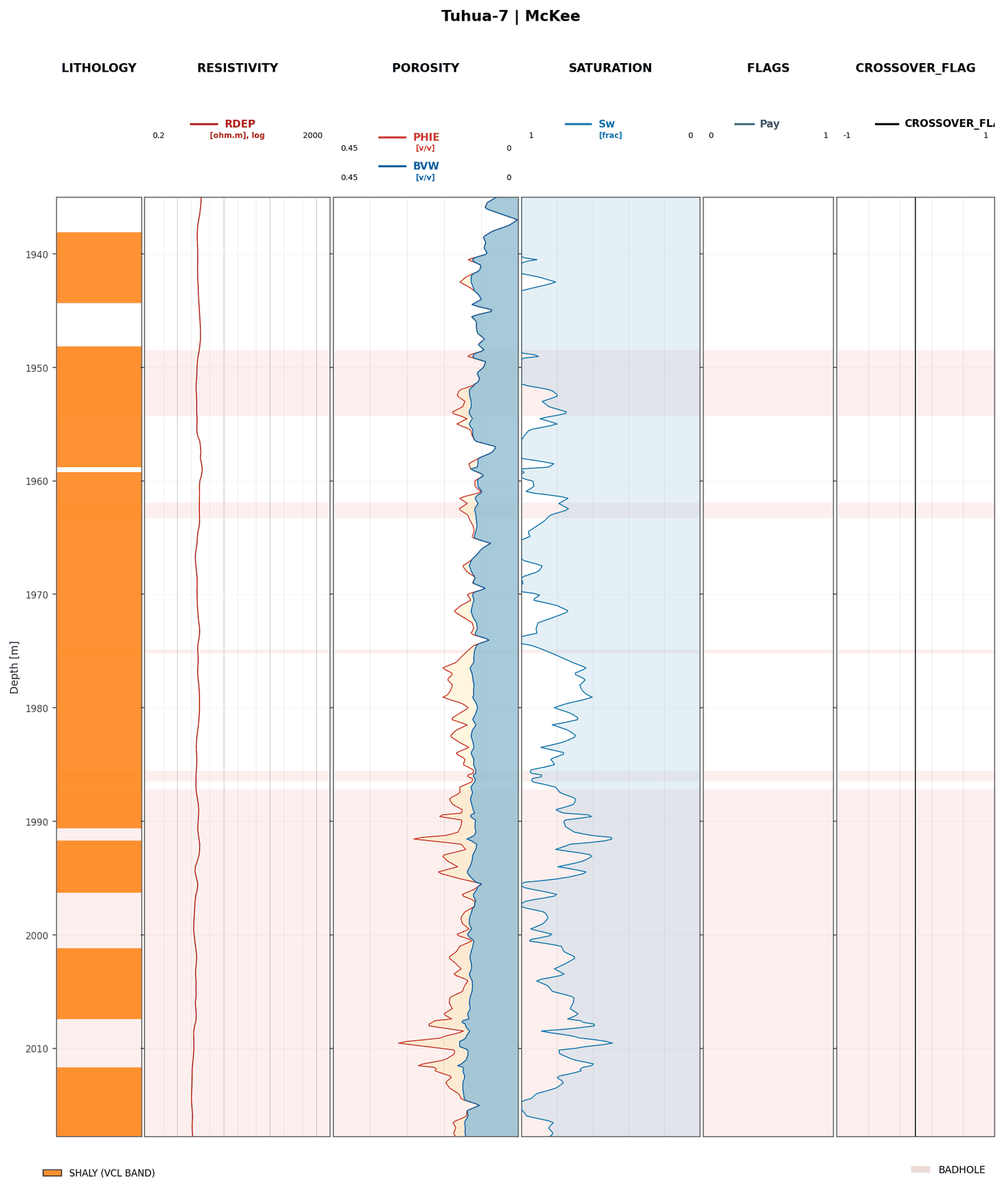
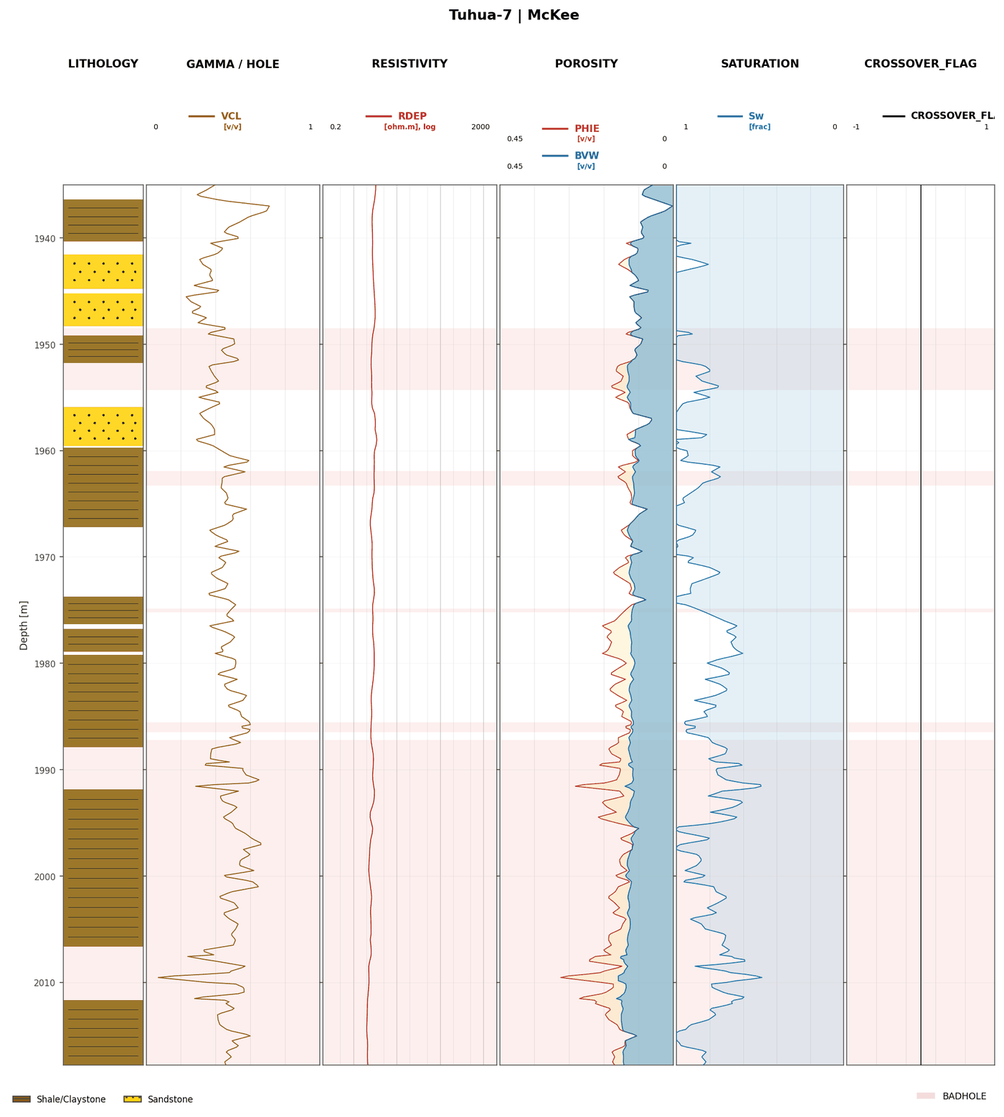
Docs, examples and labels follow the lithology zones Petrophys solves
The two worked examples on wells without a lithology log are asked again and quote their new runs, with their own
figures. The Python API page calls prepare() as it is called now. The map head and the step record in the reference
show the lines the code prints. The web page's lithology option and preview line, the --lithology-curve help and a
few docstrings name the solved lithology before shale-volume bands.

diff --git a/src/petroharness/ui/static/index.html b/src/petroharness/ui/static/index.html
@@ -1033,7 +1033,7 @@ body:not(.panel-closed) .scrim { display: block; position: fixed; inset: 52px 0 
         </section>
         <section data-sec="options" hidden>
           <label class="lab" for="lithcurve">Lithology curve</label>
-          <select id="lithcurve"><option value="">Detect (none: zones from shale-volume bands)</option></select>
+          <select id="lithcurve"><option value="">Detect (none: zones from Petrophys's solved lithology)</option></select>
           <label class="lab" for="lithtext">The formation's lithology, as you know it</label>
           <input type="text" id="lithtext" placeholder="e.g. fine sandstone with siltstone">
           <label class="lab" for="notespath">Field notes</label>
@@ -1210,7 +1210,7 @@ function showLas(info) {
   $("#unit").options[0].textContent = unit ? `${unit} (LAS)` : "LAS unit";
   $("#topsunit").options[0].textContent = unit ? `the LAS file's (${unit})` : "the LAS file's";
   const keep = $("#lithcurve").value;
-  $("#lithcurve").innerHTML = `<option value="">Detect (none: zones from shale-volume bands)</option>` +
+  $("#lithcurve").innerHTML = `<option value="">Detect (none: zones from Petrophys's solved lithology)</option>` +
     [...info.curves].sort((a, b) => lith.has(b.mnemonic) - lith.has(a.mnemonic)).map(c => `<option value="${esc(c.mnemonic)}">${esc(c.mnemonic)}${lith.has(c.mnemonic) ? " (looks like a lithology log)" : ""}</option>`).join("");
   if (info.curves.some(c => c.mnemonic === keep)) $("#lithcurve").value = keep;
   if ($("#topspath").value.trim()) loadTops($("#topspath").value.trim());
@@ -1434,7 +1434,7 @@ function iwellHtml(busy) {
   if (!p) return `<span class="wn"><span class="spin"></span> Petrophys is interpreting the well…</span>`;
   const iv = p.interval, u = p.unit || "", tot = p.interval_thickness || 0;
   const strip = tot ? p.zones.map(z => `<span title="${esc(z.zone)} ${esc(z.lithology)} ${fmtD(z.top)}–${fmtD(z.base)} ${esc(u)}" style="left:${100 * (z.top - iv.top) / tot}%;width:${Math.max(.4, 100 * (z.base - z.top) / tot)}%;background:${lithColor(z.lithology)}"></span>`).join("") : "";
-  const how = p.lithology.source === "shale-volume bands" ? "zoned by shale-volume bands (no lithology log)" : p.lithology.source === "lithology log" ? `zoned by the lithology log ${p.lithology.curve}` : "";
+  const how = p.lithology.source === "shale-volume bands" ? "zoned by shale-volume bands (no lithology log, none solved)" : p.lithology.source === "mineral solver" ? `zoned by Petrophys's solved lithology (no lithology log; ${p.lithology.domain} domain)` : p.lithology.source === "lithology log" ? `zoned by the lithology log ${p.lithology.curve}` : "";
   return `<div><b>${esc(iv.name)}</b> <span class="subtle">${fmtD(iv.top)}–${fmtD(iv.base)} ${esc(u)} · ${fmtN(iv.samples)} samples</span>${busy ? ' <span class="spin"></span>' : ""}</div>
     <div class="zs" role="img" aria-label="${p.zones.length} zones over the interval">${strip}</div>
     <div class="wn"><b>${p.zones.length}</b> zone${p.zones.length === 1 ? "" : "s"}, <b>${fmtD(p.zoned)}</b> of ${fmtD(tot)} ${esc(u)} zoned · minimum ${fmtD(p.min_thickness)} ${esc(u)} · ${esc(how)}</div>`;

diff --git a/src/petroharness/well/formation.py b/src/petroharness/well/formation.py
@@ -235,7 +235,8 @@ def find_lithology_curve(curve: Callable[[str], Optional[np.ndarray]], las_curve
     """The well's lithology log. Named (data.lithology_curve): the first of those mnemonics the well has with data.
     Not named: the LAS's own curve (las_curves: never one the workflow computed) whose mnemonic or description says it
     is a lithology or facies log (LITHOLOGY_LOG) and whose values are integer codes. None: no lithology log, and the
-    zones come from shale-volume bands. Two such curves and none named is an error that names them.
+    zones come from the lithology Petrophys's mineral solver wrote (solver_lithology), else from shale-volume bands.
+    Two such curves and none named is an error that names them.
     `curve` returns a curve's data by mnemonic (None when the well lacks it); `describe` its LAS description."""
     def has(name):
         data = curve(name)
@@ -287,7 +288,7 @@ def solver_lithology(steps: dict, well) -> Optional[dict]:
 
 
 def vcl_band_labels(vcl: np.ndarray, bands=(0.3, 0.6)) -> np.ndarray:
-    """Fallback labels when a well has no lithology curve: shale-volume bands."""
+    """Fallback labels when a well has neither a lithology log nor a solved lithology: shale-volume bands."""
     lo, hi = bands
     out = np.full(vcl.shape, MISSING_LITHOLOGY, dtype=object)
     ok = np.isfinite(vcl)

diff --git a/src/petroharness/ui/adapter.py b/src/petroharness/ui/adapter.py
@@ -426,9 +426,9 @@ def view_of(inputs: dict, cache: Path):
 
 def preview(inputs: dict, cache: Path) -> dict:
     """What Petrophys makes of this well under these settings, before any question: the interval, its zones under the
-    zone rule, how the zones were read (the lithology log, or shale-volume bands), and the value each setting took
-    ({setting: {"value", "step"}}: the defaults the data decides, for this well). The interpreted well is kept in
-    `cache` (the runs' shared cache), so the question that follows reuses it."""
+    zone rule, how the zones were read (the lithology log, the solved lithology, or shale-volume bands), and the value
+    each setting took ({setting: {"value", "step"}}: the defaults the data decides, for this well). The interpreted
+    well is kept in `cache` (the runs' shared cache), so the question that follows reuses it."""
     from petroharness import interval as I
     from petroharness.well import settings as T
     kw = arguments({**inputs, "question": "(a preview of the interpretation)"})

diff --git a/src/petroharness/ask.py b/src/petroharness/ask.py
@@ -276,7 +276,8 @@ def interval_options(ap: argparse.ArgumentParser) -> None:
                                             "(default: the tops file's, else the LAS's own)")
     lith = ap.add_argument_group("lithology")
     lith.add_argument("--lithology-curve", help="the lithology log's mnemonic (default: detected; when the LAS has "
-                                                "none, the zones are shale-volume bands)")
+                                                "none, the zones are runs of the lithology Petrophys's mineral "
+                                                "solver wrote, else shale-volume bands)")
     lith.add_argument("--formation-lithology", help="the formation's lithology as you know it, e.g. 'sandstone'")
     ap.add_argument("--field-notes", type=Path, help="a field notes file: the team's standing settings and notes for "
                                                      "this field (YAML: name, settings, notes; docs/SESSIONS.md)")

diff --git a/src/petroharness/config.py b/src/petroharness/config.py
@@ -101,7 +101,7 @@ class DataPaths(_Strict):
     lithology_columns: LithologyColumns = Field(default_factory=LithologyColumns)
     # The lithology log's LAS mnemonic, or several (the first a well has with data is used). Null: the LAS's own
     # curve whose mnemonic or description names a lithology or facies log and holds integer codes; a well without
-    # one is zoned by shale-volume bands (formation.find_lithology_curve).
+    # one is zoned by Petrophys's solved lithology, else by shale-volume bands (formation.find_lithology_curve).
     lithology_curve: Optional[Union[str, list[str]]] = None
     # How a formation is split into zones: "lithology_runs" (runs of the lithology log, thin runs dropped) or
     # "formation" (the whole formation interval is one zone, labelled by the log's majority lithology: data whose

diff --git a/docs/reference/PYTHON_API.md b/docs/reference/PYTHON_API.md
@@ -174,25 +174,27 @@ r2 = ask(petrophys.sample("30/6-5"), "Which zone has the best reservoir quality?
   rule (`zone_min_thickness_m`, `zone_vcl_bands`, `zone_layout`) may be set with either.
 
 Three interval errors on the sample wells that have them, as `prepare()` raises them for `ask()` (each says what is
-wrong, why, and the fix; `prepare` and `key` as in [section 4](#4-the-building-blocks-of-ask)):
+wrong, why, and the fix; `prepare`, `Inputs` and `key` as in [section 4](#4-the-building-blocks-of-ask)):
 
 ```python
 s = petrophys.sample
 # a tops file that lists a formation twice (Taranaki tuhua-7)
-prepare(Path(s("tuhua-7")).resolve(), key, tops=s("formations_tuhua-7.csv"), formation="Manganui", cache=Path("cache"))
+prepare(Path(s("tuhua-7")).resolve(), key, Inputs(tops=s("formations_tuhua-7.csv"), formation="Manganui"),
+        cache=Path("cache"))
 # FormationNotFound: WHAT: formation 'Manganui' is listed 2 times in formations_tuhua-7.csv (line 3: top 874.014,
 # base 1250.75; line 10: top 2164.99, base 2347.42). WHY: a repeated name (e.g. a repeated section) does not say
 # which interval is meant. FIX: choose the one you mean by its top: --formation NAME --tops FILE --top D, or give its
 # depths alone: --formation NAME --top D --base D.
 
 # a tops file in feet asked for in metres (KGS 1046123714)
-prepare(Path(s("1046123714")).resolve(), key, tops=s("1046123714_formation_tops.csv"),
-        formation="Lansing-Kansas City", depth_unit="m", cache=Path("cache"))
+prepare(Path(s("1046123714")).resolve(), key, Inputs(tops=s("1046123714_formation_tops.csv"),
+        formation="Lansing-Kansas City", depth_unit="m"), cache=Path("cache"))
 # ValueError: WHAT: the tops file 1046123714_formation_tops.csv states its depths in ft and the depth unit given is
 # m. WHY: one of them is wrong. FIX: drop --depth-unit (the file's unit is used) or correct the file.
 
 # a multi-well tops table that has no rows for this well (the COSTA table, read for GeoLink 30/6-5)
-prepare(Path(s("30/6-5")).resolve(), key, tops=s("formations_costa.csv"), formation="KHARAIB-2", cache=Path("cache"))
+prepare(Path(s("30/6-5")).resolve(), key, Inputs(tops=s("formations_costa.csv"), formation="KHARAIB-2"),
+        cache=Path("cache"))
 # FormationNotFound: WHAT: the tops file formations_costa.csv has no rows for this well (it goes by '30_6-5',
 # '30/6-5', '30/6-5'; the file's well column lists HW-3, HW-4, HW-5, HW-6, HW-7, HW-8, HW-9, HW-10, HW-24, HW-25,
 # HW-26, HW-27, HW-28, HW-29, HW-30, HW-31, HW-32). WHY: a table with a well column is read for this well only. FIX:
@@ -262,12 +264,12 @@ no model: they check an interval, and have Petrophys interpret it, before any qu
 ```python
 from pathlib import Path
 import petrophys
-from petroharness.ask import check, prepare, task_for
+from petroharness.ask import Inputs, check, prepare, task_for
 from petroharness.models import register
 
 las = Path(petrophys.sample("30/6-5")).resolve()
 key = register(["http://localhost:8000/v1"])            # the default card on this endpoint: 'k2-horizon-7b'
-p = prepare(las, key, formation="BRENT GP.", tops=petrophys.sample("formations_30_6-5.csv"), cache=Path("cache"))
+p = prepare(las, key, Inputs(formation="BRENT GP.", tops=petrophys.sample("formations_30_6-5.csv")), cache=Path("cache"))
 print(p.source, p.data["interpret"])                    # built from the LAS {'vcl_cutoff': 0.3, 'sw_cutoff': 0.7}
 task, sent = task_for(p, "Which zone has the best reservoir quality?")
 check(p, task)                                          # Petrophys interprets the well
@@ -281,7 +283,7 @@ mineral solver wrote.
 ```python
 from petroharness.well import settings
 
-p = prepare(Path(petrophys.sample("teapot_17-wx-21")).resolve(), key, cache=Path("cache"))
+p = prepare(Path(petrophys.sample("teapot_17-wx-21")).resolve(), key, Inputs(), cache=Path("cache"))
 task, sent = task_for(p, "Where are the porous intervals in this well, and what do they hold?")
 check(p, task)
 p.used
@@ -303,7 +305,7 @@ Each case on the sample well that has it, through the same three calls:
 
 ```python
 def interval(name, **kw):                     # the interval as ask() would use it, with no model call
-    p = prepare(Path(petrophys.sample(name)).resolve(), key, cache=Path("cache"), **kw)
+    p = prepare(Path(petrophys.sample(name)).resolve(), key, Inputs(**kw), cache=Path("cache"))
     check(p, task_for(p, "(the interval)")[0])
     return p
 
@@ -341,19 +343,21 @@ University, CC BY. GeoLink, CC BY-SA 4.0.
 `prepare()` builds the data settings and the interval for one LAS, with no model call and no interpretation yet.
 
 ```python
-prepare(las: Path, key: str, *, formation=None, tops=None, top=None, base=None, depth_unit=None, lithology_curve=None,
-        formation_lithology=None, profile=None, settings=None, skills=None, interpretation=None, field_notes=None,
-        zones=None, zones_sheet=None, cache: Path) -> Prepared
+prepare(las: Path, key: str, inputs: Inputs, *, cache: Path) -> Prepared
+
+Inputs(formation=None, tops=None, top=None, base=None, depth_unit=None, lithology_curve=None, formation_lithology=None,
+       profile=None, settings=None, skills=None, interpretation=None, field_notes=None, zones=None, zones_sheet=None)
 ```
 
 | Argument | Type | Default | Meaning | Defined in |
 |---|---|---|---|---|
 | `las` | Path | required | The LAS file, already resolved to an absolute path. | `interval.prepare` |
 | `key` | str | required | A model registry key (`petroharness.models.register`). | `interval.prepare` |
-| `formation` ... `skills` | as `ask()` | as `ask()` | As in `ask()`. | `interval.prepare` |
-| `interpretation` | dict or None | None | The settings in force, field notes' settings already merged in. | `interval._interpretation` |
-| `field_notes` | dict or None | None | The loaded field notes (`well.notes.load(path)`), not a path. | `interval.prepare` |
-| `zones`, `zones_sheet` | as `ask()` | as `ask()` | Your zones, read into `data.zones` (and the file's name into `data.zones_source`). | `interval.prepare`, `well.user_zones.read_zones` |
+| `inputs` | `Inputs` | required | What the interval is prepared from: the arguments `ask()`, a conversation, the web UI and the setup command share, one field each. `Inputs.of(mapping)` takes the fields a mapping or an argparse namespace holds. | `interval.Inputs` |
+| `inputs.formation` ... `inputs.skills` | as `ask()` | as `ask()` | As in `ask()`. | `interval.prepare` |
+| `inputs.interpretation` | dict or None | None | The settings in force; a field notes file's settings are merged under them. | `interval._interpretation`, `Inputs.loaded` |
+| `inputs.field_notes` | path, dict or None | None | A field notes file, or the notes already read from one (`well.notes.load(path)`). | `Inputs.loaded` |
+| `inputs.zones`, `inputs.zones_sheet` | as `ask()` | as `ask()` | Your zones, read into `data.zones` (and the file's name into `data.zones_source`). | `interval.prepare`, `well.user_zones.read_zones` |
 | `cache` | Path | required | The folder the interpreted well is cached in (`data.cache_dir` unless the settings file sets one). | `interval._settings` |
 
 - The data settings start from `settings` (else `PETROHARNESS_DATA`); `las_dir` defaults to the LAS's folder and
@@ -374,7 +378,7 @@ prepare(las: Path, key: str, *, formation=None, tops=None, top=None, base=None, 
 | `key` | str | required | The model registry key. | `interval.Prepared` |
 | `data` | dict | required | The data settings built for this LAS (the `data:` section, [CONFIGURATION.md](CONFIGURATION.md#4-the-data-section)). | `interval._settings` |
 | `source` | str | required | Where they came from: the settings file's path, or `built from the LAS`. | `interval._settings` |
-| `span` | dict | required | The interval asked about: `name`, `top`, `base`, `closed`, `unit`, `from`, `las_unit`, `report`. | `interval._interval` |
+| `span` | dict | required | The interval asked about: `name`, `top`, `base`, `closed`, `unit`, `from`, `las_unit`, `report`, and `units` (the tops file's units inside the interval) when it lists any. | `interval._interval` |
 | `said` | str | required | The operator's lithology for the formation ("" when not given). | `interval.prepare` |
 | `given` | dict | required | The settings every question runs under, for `config.given_settings`: `{"data", "eval": {}, "skills"?}`. | `interval.prepare` |
 | `skills_given` | str or None | None | The `skills` argument as given. | `interval.prepare` |
@@ -387,8 +391,9 @@ prepare(las: Path, key: str, *, formation=None, tops=None, top=None, base=None, 
 ```python
 p.span          # 30/6-5, Brent Group
 # {'name': 'BRENT GP.', 'top': 2841.0, 'base': 2958.0, 'closed': True, 'unit': 'm',
-#  'from': 'tops file formations_30_6-5.csv, base: stated base', 'las_unit': 'm', 'report': 'm'}
-prepare(Path(petrophys.sample("25/5-1")).resolve(), key, top=2990, base=3290, cache=Path("cache")).span
+#  'from': 'tops file formations_30_6-5.csv, base: stated base',
+#  'units': [['Ness Fm.', 2841.0, 2865.0], ['Etive Fm.', 2865.0, 2958.0]], 'las_unit': 'm', 'report': 'm'}
+prepare(Path(petrophys.sample("25/5-1")).resolve(), key, Inputs(top=2990, base=3290), cache=Path("cache")).span
 # {'name': 'depth interval 2990-3290 m', 'top': 2990.0, 'base': 3290.0, 'closed': True, 'unit': 'm',
 #  'from': 'depths given', 'las_unit': 'm', 'report': 'm'}
 ```
@@ -407,8 +412,8 @@ These three functions turn a `Prepared` into a question the graph can run and re
 | `ask_record(p, question, sent, trace)` | dict | none | The trace's `ask` block ([AskResult](#askresult)). | `ask.ask_record` |
 
 ```python
-p = prepare(las, key, formation="BRENT GP.", tops=petrophys.sample("formations_30_6-5.csv"),
-            formation_lithology="sandstone", cache=Path("cache"))
+p = prepare(las, key, Inputs(formation="BRENT GP.", tops=petrophys.sample("formations_30_6-5.csv"),
+                             formation_lithology="sandstone"), cache=Path("cache"))
 task_for(p, "Which zone has the best reservoir quality?")[1]
 # "Which zone has the best reservoir quality?\n\n(The operator states this formation's lithology: sandstone.)"
 ```

diff --git a/docs/EXAMPLES.md b/docs/EXAMPLES.md
@@ -129,24 +129,34 @@ petroharness --las $(w HW-3) --tops $(w formations_costa.csv) --formation KHARAI
   --question "Interpreted as a carbonate, what are the porosity, water saturation and net pay of KHARAIB-2, and how do they change against a clastic reading with a sandstone matrix?"
 ```
 
-Petrophys interpreted the interval as a carbonate (a calcite–dolomite solve on a 2.71 g/cm³ matrix). The model read
-the record and had Petrophys recompute density porosity on a sandstone matrix (8 steps). The tops table holds several
-COSTA wells; the rows of HW-3 are used, in feet.
+Petrophys interpreted the interval as a carbonate (a calcite–dolomite solve on a 2.71 g/cm³ matrix). The well has no
+lithology log, so the zones are the solver's: nine, limestone with one dolomite. The model read the record,
+summarized pay, and had Petrophys rerun porosity and saturation under a clastic reading (8 steps, 13 results
+opened). The tops table holds several COSTA wells; the rows of HW-3 are used, in feet.
 
-> - **Porosity:** uncalibrated PHIE mean **0.1981 v/v** (median 0.2164, range 0.0324–0.3099); core-calibrated
->   PHIE_CC mean **0.2443** (median 0.29) over the 351 samples where it exists. […]
-> - **Net pay:** **194 ft of NET_PAY (90% of the zoned thickness)**, flagged where NET_ROCK (VCL < 0.3) and NET_RES
->   (PHIE > 0.045) hold and SW < 0.7. […]
-> - **Carbonate support:** VCALC mean **0.7422** (median 0.7719) and VDOLO mean **0.0559** (median 0) with quartz and
->   anhydrite fixed at 0 […]
+> KHARAIB-2 is logged as a 215-ft gross interval (7805–8020 ft, 431 samples at 0.5-ft spacing) split into nine
+> labelled zones (Z1–Z9, 179 ft of zoned thickness). Under a carbonate reading, the available data give:
 >
-> A 2.65 g/cm³ sandstone matrix lowers density porosity from ~0.196 to ~0.169 (mean, pooled) […] What would follow for
-> Archie SW and pay was not run and cannot be stated from this record.
+> - **Porosity** — effective porosity PHIE (uncalibrated model output) pools to **0.2063 v/v** over the 367 zoned
+>   samples (0.1981 over the whole 431-sample interval), while the core-calibrated PHIE_CC pools to **0.233** over
+>   the 287 zoned samples where it exists and **0.2443** over the whole interval (n = 351 of 431). […]
+> - **Water saturation** — the Archie SW (core-calibrated PHIE_CC where present, PHIE fallback where absent) pools
+>   to **0.2103** over the zones and **0.1943** over the whole interval. […]
+> - **Net pay** — the record's flags: NET_ROCK 431 samples / **215.5 ft** (VCL < 0.3), NET_RES **390 samples / 195
+>   ft**, NET_PAY **388 samples / 194 ft** (adds SW < 0.7). […]
+> - **Sandstone/clastic reading** — the available lithology outputs carry **VQUAR = 0** over the entire well […] A
+>   quartz-matrix porosity recomputation was attempted, but the default quartz density and slowness values are not
+>   recorded and the recomputed per-sample porosity is not available in the record text, so the shift on
+>   PHID/PHIT/PHIE cannot be graded numerically. […]
+>
+> The field notes state KHARAIB-2 is a limestone reservoir. The data show limestone-dominant carbonate (VCALC mean
+> 0.7365–0.825) with a dolomite band (Z4), zero quartz volume, and no sandstone-matrix indicator — so the
+> "sandstone/clastic" reading is hypothetical and not supported by the lithology outputs.
 
-The last line is the answer keeping to what was computed: the sandstone what-if covered porosity, so the answer does
-not guess its effect on saturation and pay.
+The answer keeps to what was computed: it reports the pay flags as the record holds them, and where the sandstone
+rerun gave it no porosity it could grade, it says so and does not guess.
 
-![Density against neutron in COSTA HW-3](images/example-carbonate.png "The answer's density-neutron crossplot of KHARAIB-2, 431 samples coloured by gamma ray, with the sandstone, limestone and dolomite lines. Drawn by Petrophys. Data: Costa Gomes, Geiger and Arnold (2022), COSTA model, Heriot-Watt University, CC BY.")
+![Porosity beside the solved lithology in COSTA HW-3](images/example-carbonate.png "The answer's log display of KHARAIB-2 in COSTA HW-3: total, effective and core-calibrated porosity with the density, sonic and neutron porosities, beside the zones' lithology as Petrophys solved it (limestone, with one dolomite zone). Drawn by Petrophys. Data: Costa Gomes, Geiger and Arnold (2022), COSTA model, Heriot-Watt University, CC BY.")
 
 ## 6. A fluid contact
 
@@ -155,17 +165,20 @@ petroharness --las $(w tuhua-7) --tops $(w formations_tuhua-7.csv) --formation M
   --question "Is there a hydrocarbon-water contact in the McKee Formation? If so, at what depth, and how strong is the evidence?"
 ```
 
-The well has no lithology log, so the zones are bands of shale volume. The model read saturation by depth, the
-fluid-contact and hydrocarbon analyzers, invasion and crossover, and overlapped the low-saturation samples with bad
-hole (8 steps, 16 results opened).
+The well has no lithology log, so the zones are runs of the lithology Petrophys's mineral solver gives: 11 zones of
+shale and sandstone. The model read the fluid-contact, hydrocarbon and gas analyzers and saturation by depth (3 steps,
+8 results opened).
 
-> **Answer:** No reliable hydrocarbon–water contact is identified in the McKee Formation of well tuhua-7. Water
-> saturation is high throughout, no pay flag is set anywhere, and the few low-SW samples sit inside clay-rich, largely
-> bad-hole intervals where the hydrocarbon-indicator criteria cannot operate cleanly. […] The strongest signal for any
-> hydrocarbon potential is a marginal LOW_SW sample at 1991.7156 m in Z4; it is too thin, too clay-dominated, and too
-> data-limited to define a contact depth.
+> There is **no supported hydrocarbon-water contact** in the McKee Formation in well **tuhua-7** (1935.0–2017.8 m).
+> The saturation workflow returns water saturations of 0.82–1.0 v/v across all 11 lithological zones, with a pooled
+> zone mean of **0.872 v/v**; every hydrocarbon, gas, and petrophysical indicator classifies the interval as
+> **NO_INDICATION** / **NO_GAS_EFFECT**, the neutron-density crossover flag is set in **zero** samples, and
+> **NET_PAY** is set in **zero** samples. The only fluid-contact detector marks **0.448 m** of transition-zone
+> status (0.77% of the 58.2 m zoned thickness) at ~1958.9 m and ~1992.0–1995.4 m, but these sit in intervals with
+> high bad-hole density and lack any supporting resistivity or core evidence. No depth can be assigned to a
+> hydrocarbon-water contact with confidence.
 
-![Saturation and porosity in the McKee Formation](images/example-contact.png "The answer's log display of the McKee Formation in tuhua-7: deep resistivity, effective porosity and bulk volume water, water saturation, the net-pay flag and the crossover flag; no pay is flagged, and bad hole is shaded. Drawn by Petrophys. Data: Taranaki Basin Curated Well Logs Dataset (New Zealand Petroleum & Minerals), CDLA-Sharing-1.0.")
+![Saturation and porosity in the McKee Formation](images/example-contact.png "The answer's log display of the McKee Formation in tuhua-7, beside the zones' lithology: shale volume, deep resistivity, effective porosity and bulk volume water, water saturation and the crossover flag; no crossover is flagged, and bad hole is shaded. Drawn by Petrophys. Data: Taranaki Basin Curated Well Logs Dataset (New Zealand Petroleum & Minerals), CDLA-Sharing-1.0.")
 
 The wells ship with Petrophys. Data: GeoLink, CC BY-SA 4.0; Taranaki Basin Curated Well Logs Dataset (New Zealand
 Petroleum & Minerals), CDLA-Sharing-1.0; Costa Gomes, Geiger and Arnold (2022), COSTA model, Heriot-Watt University,

diff --git a/docs/reference/TOOLS_REFERENCE.md b/docs/reference/TOOLS_REFERENCE.md
@@ -1176,20 +1176,20 @@ The lines it writes, as `tools.values_at` builds them (placeholders in angle bra
   ...
   sxo_method: fifth_root_quicklook
   ...
-  record: in this interval SXO is the quicklook SW^(1/5) at 397 samples; 1 where SW is 1 too (water-bearing, either route) at 34 samples (of its 431 samples with SXO and SW); where SXO is the quicklook it is a formula of SW (and MHI = SW^0.8), not a flushed-zone reading: ...
+  in this interval SXO is the quicklook SW^(1/5) at 397 samples; 1 where SW is 1 too (water-bearing, either route) at 34 samples (of its 431 samples with SXO and SW); where SXO is the quicklook it is a formula of SW (and MHI = SW^0.8), not a flushed-zone reading: ...
   ...
-  record: well-wide record: SXO fallback: SXO = SW^(1/5) because RSHA/RXO/RESS and RMF unavailable
+  record (the whole well's run; its counts are the well's): SXO fallback: SXO = SW^(1/5) because RSHA/RXO/RESS and RMF unavailable
 ```
 
 **Notes**
 
 - Parameters whose names end in a bookkeeping suffix (`_source`, `_requested`, `_count`, `_samples`, ...) are left
   out, and nested parameters lose their sample tallies, which count the whole well (`tools._BOOKKEEPING`, `_TALLY`).
-- The first record lines are this interval's routes, counted sample by sample by `record/routes.py`
+- The lines that start `in this interval` are this interval's routes, counted sample by sample by `record/routes.py`
   (`route_lines`): which resistivity pair gives `INVASION_RATIO` (`SHALLOW` = `RXO`, `RSHA`, `RESS`, `RMED`; the
   fallback `RMED`) and where SXO comes from shallow resistivity, where it is the quicklook `SW^(1/5)`, and where both
-  are 1 (water-bearing). A record line about the whole well's routes is labelled `well-wide record:`
-  (`routes.well_wide`).
+  are 1 (water-bearing). The lines the whole well's run recorded are labelled `record (the whole well's run; its
+  counts are the well's):` (`card.RECORD_LABEL`).
 - `routes.contradictions` uses the same counts to flag a claim or a draft that calls this interval's route the
   well-wide fallback ([WRITER_AND_CHECKER.md](WRITER_AND_CHECKER.md)).
 

diff --git a/docs/reference/INTERPRETATION_SETTINGS.md b/docs/reference/INTERPRETATION_SETTINGS.md
@@ -616,7 +616,7 @@ minimum, 31 at 1.0 m.
 | Name | Type | Default | Meaning | Defined in |
 |---|---|---|---|---|
 | `zone_min_thickness_m` | number, metres | policy `zones.min_thickness_m`, 2.0 | becomes `data.zone_min_thickness_m`; a run is a zone when base minus top exceeds it, converted to the reporting unit | `settings.ZONE_FIELDS`, `FormationView.build` |
-| `zone_vcl_bands` | two numbers, v/v | policy `zones.fallback_vcl_bands`, `[0.3, 0.6]` | becomes `data.zone_vcl_bands`; the band edges, used only when the well has no lithology log | `settings.ZONE_FIELDS`, `formation.vcl_band_labels` |
+| `zone_vcl_bands` | two numbers, v/v | policy `zones.fallback_vcl_bands`, `[0.3, 0.6]` | becomes `data.zone_vcl_bands`; the band edges, used only when the well has neither a lithology log nor a solved lithology | `settings.ZONE_FIELDS`, `formation.vcl_band_labels` |
 | `zone_layout` | `lithology_runs` or `formation` | `lithology_runs` | becomes `data.zone_layout`; runs of one label, or the interval as one zone (`formation.formation_zone`) | `settings.ZONE_FIELDS`, `config.DataPaths` |
 
 Example: the same rule in a settings file.

diff --git a/docs/reference/INVESTIGATION_STATE.md b/docs/reference/INVESTIGATION_STATE.md
@@ -1046,7 +1046,9 @@ The head of the map of 30/6-5, Brent Group, whose zones are runs of its litholog
 
 ```text
 WELL 30_6-5, FORMATION BRENT GP.
-Interval: 2841.0193-2957.9102 m (gross 116.8909 m); 768 samples every 0.1523 m
+Well: its log runs 176.61-3556.0803 m, 22176 samples every 0.1523 m; a tool's zones may name a depth range TOP-BASE anywhere in it or a unit of the tops file, computed on that stretch
+Interval (the formation the session opened on, one part of the well): 2841.0193-2957.9102 m (gross 116.8909 m); 768 of the well's samples
+  Units of the tops file: NORDLAND GP. 181-726 m; Utsira Fm. 726-879 m; ...; BRENT GP. 2841-2958 m; Ness Fm. 2841-2865 m; Etive Fm. 2865-2958 m; ...
 Zones: 20, covering 83.3629 m (71% of the interval)
   Z1 SAND_GROUP_1 2841.3242-2845.7439 m (4.4197 m)
   Z2 SILT_GROUP_4 2856.1069-2858.6977 m (2.5908 m)

diff --git a/docs/reference/WELL_PREPARATION.md b/docs/reference/WELL_PREPARATION.md
@@ -886,7 +886,9 @@ reporting unit. Petrophys draws it as the interval display; the map's first line
 
 ```text
 WELL 30_6-5, FORMATION BRENT GP.
-Interval: 2841.0193-2957.9102 m (gross 116.8909 m); 768 samples every 0.1523 m
+Well: its log runs 176.61-3556.0803 m, 22176 samples every 0.1523 m; a tool's zones may name a depth range TOP-BASE anywhere in it or a unit of the tops file, computed on that stretch
+Interval (the formation the session opened on, one part of the well): 2841.0193-2957.9102 m (gross 116.8909 m); 768 of the well's samples
+  Units of the tops file: NORDLAND GP. 181-726 m; Utsira Fm. 726-879 m; ...; BRENT GP. 2841-2958 m; Ness Fm. 2841-2865 m; Etive Fm. 2865-2958 m; ...
 Zones: 20, covering 83.3629 m (71% of the interval)
 ```
 
